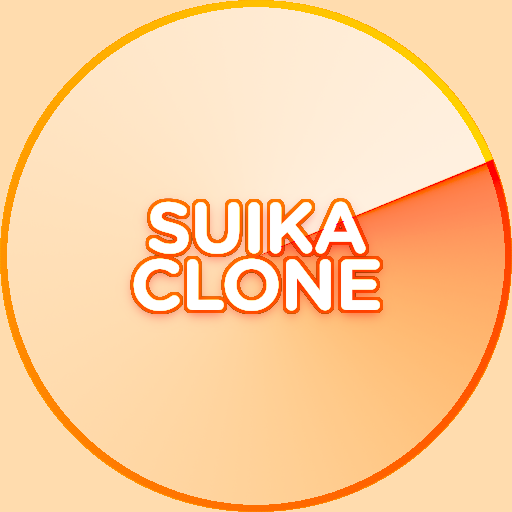
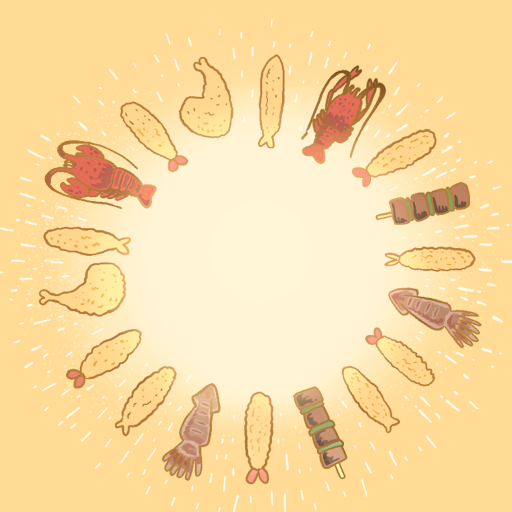
●新增響應式設計與重新開始功能 -新增底部固定狀態列：顯示最高分、下一個（文字格式）、重新開始按鈕 -電腦版：保留右側貓咪等級列表 -手機版(≤768px)： -隱藏右側列表，改用右上角「📋等級」懸浮按鈕 -點擊彈出等級視窗，可點擊背景或X關閉 -調整字體大小適應小螢幕 -重新開始按鈕：點擊重載頁面

diff --git a/index.html b/index.html
@@ -83,6 +83,140 @@
       color: var(--col-primary);
     }
 
+    #status-bar {
+      position: fixed;
+      bottom: 0;
+      left: 0;
+      right: 0;
+      background-color: var(--col-bg-light);
+      border-top: 3px solid var(--col-primary);
+      padding: 12px 20px;
+      display: flex;
+      justify-content: space-between;
+      align-items: center;
+      gap: 16px;
+      font-size: 16px;
+      font-weight: 700;
+      z-index: 100;
+    }
+
+    #status-bar span {
+      color: var(--col-primary-dark);
+      font-weight: 900;
+      font-size: 18px;
+    }
+
+    #restart-btn {
+      background-color: var(--col-primary);
+      color: white;
+      border: none;
+      border-radius: 8px;
+      padding: 8px 16px;
+      font-size: 14px;
+      font-weight: 700;
+      cursor: pointer;
+      white-space: nowrap;
+    }
+
+    #restart-btn:hover {
+      background-color: var(--col-primary-dark);
+    }
+
+    #mobile-legend-btn {
+      display: none;
+      position: fixed;
+      top: 16px;
+      right: 16px;
+      background-color: var(--col-primary);
+      color: white;
+      border: none;
+      border-radius: 50%;
+      width: 50px;
+      height: 50px;
+      font-size: 20px;
+      cursor: pointer;
+      box-shadow: 0 4px 8px var(--col-shadow);
+      z-index: 200;
+    }
+
+    #mobile-legend-overlay {
+      display: none;
+      position: fixed;
+      top: 0;
+      left: 0;
+      right: 0;
+      bottom: 0;
+      background-color: rgba(0, 0, 0, 0.5);
+      z-index: 300;
+    }
+
+    #mobile-legend-overlay.active {
+      display: flex;
+      align-items: center;
+      justify-content: center;
+    }
+
+    #mobile-legend-panel {
+      background-color: var(--col-bg-lighter);
+      border: 3px solid var(--col-primary);
+      border-radius: 16px;
+      padding: 40px 20px 20px 20px;
+      max-width: 90%;
+      max-height: 70vh;
+      overflow-y: auto;
+      position: relative;
+    }
+
+    #mobile-legend-close {
+      position: absolute;
+      top: 8px;
+      right: 8px;
+      background-color: var(--col-primary-dark);
+      color: white;
+      border: none;
+      border-radius: 50%;
+      width: 32px;
+      height: 32px;
+      font-size: 18px;
+      cursor: pointer;
+      z-index: 10;
+    }
+
+    @media (max-width: 768px) {
+      .container {
+        flex-direction: column;
+        padding-bottom: 60px;
+      }
+
+      #legend {
+        display: none;
+      }
+
+      #mobile-legend-btn {
+        display: block;
+      }
+
+      #status-bar {
+        font-size: 14px;
+      }
+
+      #status-bar span {
+        font-size: 16px;
+      }
+
+      #game-score {
+        font-size: 48px;
+      }
+
+      #game-end-title {
+        font-size: 32px;
+      }
+
+      #game-end-link {
+        font-size: 18px;
+      }
+    }
+
     #game-canvas {
       position: relative;
     }
@@ -211,8 +345,22 @@
       </div>
     </div>
     <div id="legend">
-      <div id="legend-highscore">最高分 <span id="legend-highscore-value">0</span></div>
-      <div id="legend-next"><b>下一個</b> <span id="legend-next-text">－</span></div>
+      <div id="legend-title">貓咪等級</div>
+      <div id="legend-items"></div>
+    </div>
+  </div>
+
+  <div id="status-bar">
+    <div id="status-highscore">最高分：<span id="highscore-value">0</span></div>
+    <div id="status-next">下一個：<span id="next-text">－</span></div>
+    <button id="restart-btn">🔄 重新開始</button>
+  </div>
+
+  <button id="mobile-legend-btn">📋 等級</button>
+  <div id="mobile-legend-overlay">
+    <div id="mobile-legend-panel">
+      <button id="mobile-legend-close">✕</button>
+      <div id="mobile-legend-content"></div>
     </div>
   </div>
   <script type="text/javascript" src="./matter.js"></script>

diff --git a/index.js b/index.js
@@ -43,8 +43,14 @@ const Game = {
 		score: document.getElementById('game-score'),
 		end: document.getElementById('game-end-container'),
 		endTitle: document.getElementById('game-end-title'),
-		statusValue: document.getElementById('legend-highscore-value'),
-		legendNextText: document.getElementById('legend-next-text'),
+		statusValue: document.getElementById('highscore-value'),
+		legendNextText: document.getElementById('next-text'),
+		legendItems: document.getElementById('legend-items'),
+		mobileLegendBtn: document.getElementById('mobile-legend-btn'),
+		mobileLegendOverlay: document.getElementById('mobile-legend-overlay'),
+		mobileLegendContent: document.getElementById('mobile-legend-content'),
+		mobileLegendClose: document.getElementById('mobile-legend-close'),
+		restartBtn: document.getElementById('restart-btn'),
 		previewBall: null,
 	},
 	cache: { highscore: 0 },
@@ -94,7 +100,7 @@ const Game = {
 	setNextFruitSize: function () {
 		Game.nextFruitSize = Math.floor(rand() * 5);
 		const name = Game.fruitNames[Game.nextFruitSize];
-		Game.elements.legendNextText.innerText = `${name} ${Game.nextFruitSize + 1}`;
+		Game.elements.legendNextText.innerText = `${name} (等級${Game.nextFruitSize + 1})`;
 	},
 
 	showHighscore: function () {
@@ -371,12 +377,37 @@ const mouseConstraint = MouseConstraint.create(engine, {
 render.mouse = mouse;
 
 Game.buildLegend = function () {
-	const legend = document.getElementById('legend');
-	Game.fruitSizes.forEach(function (size, i) {
-		const row = document.createElement('div');
-		row.className = 'legend-row';
-		row.innerHTML = `<span>${Game.fruitNames[i]}</span><b>${i + 1}</b>`;
-		legend.appendChild(row);
+	const buildItems = (container) => {
+		container.innerHTML = '';
+		Game.fruitSizes.forEach(function (size, i) {
+			const row = document.createElement('div');
+			row.className = 'legend-row';
+			row.innerHTML = `<span>${Game.fruitNames[i]}</span><b>${i + 1}</b>`;
+			container.appendChild(row);
+		});
+	};
+
+	buildItems(Game.elements.legendItems);
+	buildItems(Game.elements.mobileLegendContent);
+
+	// 手機版按鈕事件
+	Game.elements.mobileLegendBtn.addEventListener('click', function() {
+		Game.elements.mobileLegendOverlay.classList.add('active');
+	});
+
+	Game.elements.mobileLegendClose.addEventListener('click', function() {
+		Game.elements.mobileLegendOverlay.classList.remove('active');
+	});
+
+	Game.elements.mobileLegendOverlay.addEventListener('click', function(e) {
+		if (e.target === Game.elements.mobileLegendOverlay) {
+			Game.elements.mobileLegendOverlay.classList.remove('active');
+		}
+	});
+
+	// 重新開始按鈕
+	Game.elements.restartBtn.addEventListener('click', function() {
+		location.reload();
 	});
 };
 